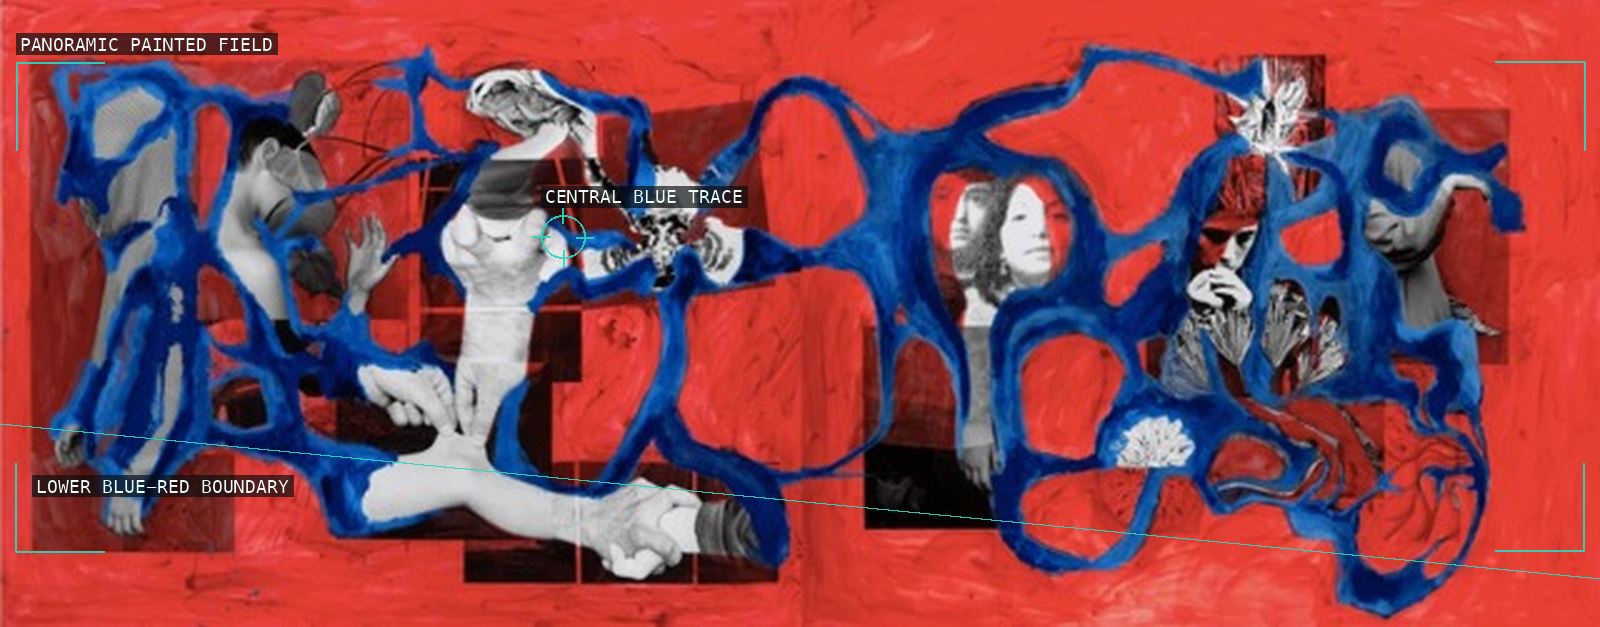
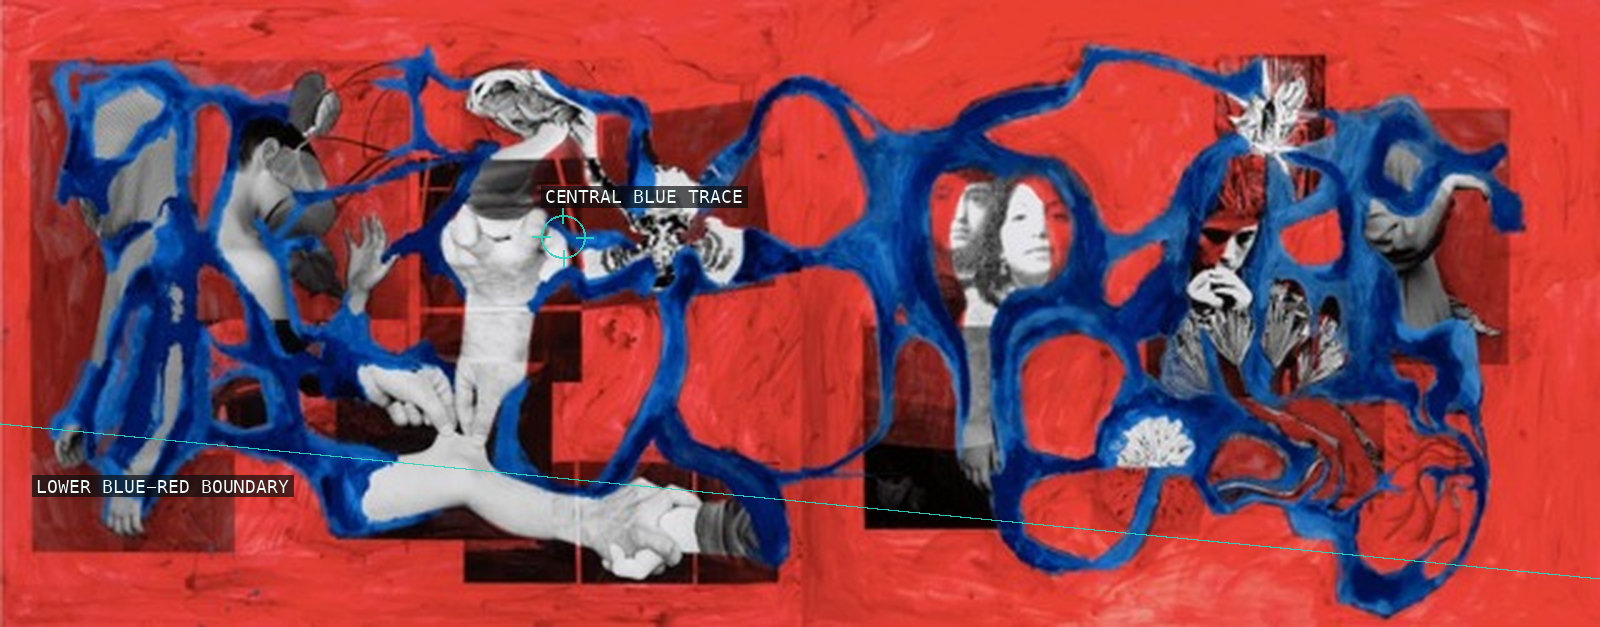
resolve critique: ozlem-altin

Changed region(s): [[0.0, 0.0303, 0.1875, 0.1212], [0.9375, 0.0909, 1.0, 0.1212], [0.0312, 0.8788, 0.0625, 0.9091]]

diff --git a/content/ozlem-altin/critique.md b/content/ozlem-altin/critique.md
@@ -1,4 +1,4 @@
-verdict: revise
+verdict: resolved
 
 ## Critique round — 2026-08-02
 
@@ -71,3 +71,23 @@ the current analyses, its settings disclaimer avoids invented camera data, and
 the ten per-image fair-use records provide linked sources, credits, and
 four-factor rationales. Public source and image routes sampled from THE PILL,
 Istanbul Modern, and the Berlin Biennale returned successfully.
+
+## Builder resolution — 2026-08-02
+
+1. **01-echo:** Removed the unsupported inset `frame_in_frame`; the overlay
+   now limits its claim to the measured near-bilateral axis and the visible
+   folded-hand anchor.
+2. **07-our-light-is-a-voice-ii:** Removed the false inset
+   `frame_in_frame` and made the surviving measured line literal by renaming
+   it `MIDDLE TONAL SPLIT`.
+3. **09-pulse-and-grief-encapsulated-reactivated:** Removed the unsupported
+   near-full-frame `frame_in_frame`; the overlay now retains only the measured
+   lower blue-red boundary and the visible central blue-trace anchor.
+
+Re-verified critique history: both 2026-08-02 rounds. The earlier corrections
+remain intact: no inset-frame primitive appears on 05 or 06, and no symmetry
+axis appears on 10. The current corrections also hold: no inset-frame
+primitive appears on 01, 07, or 09. All ten current overlays pass deterministic
+scoring at 100/100; the three affected refreshed proofs were visually checked.
+The chapter remains byte-identical at `content/ozlem-altin/chapter.mdx` and
+`src/chapters/ozlem-altin.mdx`.
